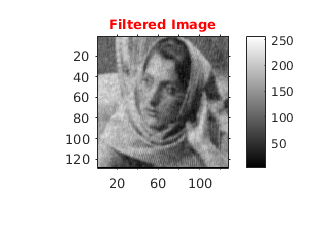
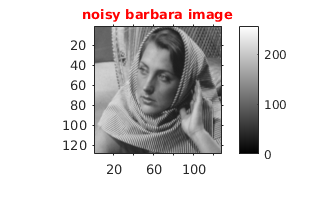
Problem 6 PCA denoise

diff --git a/assignment5/assignment5_DFT/6/code/html/myMainScript.html b/assignment5/assignment5_DFT/6/code/html/myMainScript.html
@@ -66,7 +66,7 @@ table td { padding:7px 5px; text-align:left; vertical-align:top; border:1px soli
 
 
 
-  </style></head><body><div class="content"><h2>Contents</h2><div><ul><li><a href="#1">MyMainScript</a></li><li><a href="#2">Initialization</a></li><li><a href="#3">Adding Gaussian Noise to the image</a></li><li><a href="#4">a) PCA denoising algo</a></li><li><a href="#5">b) PCA denoising algo</a></li></ul></div><h2>MyMainScript<a name="1"></a></h2><pre class="codeinput">tic;
+  </style></head><body><div class="content"><h2>Contents</h2><div><ul><li><a href="#1">PCA Based Denoising</a></li><li><a href="#2">Initialization</a></li><li><a href="#3">Adding Gaussian Noise to the image</a></li><li><a href="#4">a) PCA denoising algo</a></li><li><a href="#5">b) PCA denoising algo using L similar patch</a></li><li><a href="#6">b) PCA denoising algo</a></li></ul></div><h2>PCA Based Denoising<a name="1"></a></h2><pre class="codeinput">tic;
 </pre><h2>Initialization<a name="2"></a></h2><pre class="codeinput">file=<span class="string">'../data/barbara256.png'</span>;
 figure(<span class="string">'name'</span>,<span class="string">'Original Image'</span>);
 scale=1/2;
@@ -82,14 +82,24 @@ figure(<span class="string">'name'</span>,<span class="string">'noisy Image'</sp
 imshow(noisyImg,colormap(cmGray256)),daspect([1,1,1]);
 title(<span class="string">'\fontsize{10}{\color{red}noisy barbara image}'</span>),o1 = get(gca, <span class="string">'Position'</span>);
 colorbar(),set(gca, <span class="string">'Position'</span>, o1),axis <span class="string">tight</span>,axis <span class="string">on</span>;
-</pre><img vspace="5" hspace="5" src="myMainScript_02.png" alt=""> <h2>a) PCA denoising algo<a name="4"></a></h2><pre class="codeinput">tic
+</pre><img vspace="5" hspace="5" src="myMainScript_02.png" alt=""> <img vspace="5" hspace="5" src="myMainScript_03.png" alt=""> <h2>a) PCA denoising algo<a name="4"></a></h2><pre class="codeinput">tic
 patchSize=7;sigma=20;
 img1=myPCADenoising1(noisyImg,patchSize,sigma);
 figure(<span class="string">'name'</span>,<span class="string">'Filtered Image'</span>);
 imshow(img1,colormap(cmGray256)),daspect([1,1,1]);
 title(<span class="string">'\fontsize{10}{\color{red}Filtered Image}'</span>),o1 = get(gca, <span class="string">'Position'</span>);
 colorbar(),set(gca, <span class="string">'Position'</span>, o1),axis <span class="string">tight</span>,axis <span class="string">on</span>;
-</pre><img vspace="5" hspace="5" src="myMainScript_03.png" alt=""> <h2>b) PCA denoising algo<a name="5"></a></h2><pre class="codeinput"><span class="comment">%{
+</pre><img vspace="5" hspace="5" src="myMainScript_04.png" alt=""> <img vspace="5" hspace="5" src="myMainScript_05.png" alt=""> <h2>b) PCA denoising algo using L similar patch<a name="5"></a></h2><pre class="codeinput">tic
+patchSize=7;windowSize=31;L=200;sigma=20;
+img2=myPCADenoising3(noisyImg,windowSize,patchSize,L,sigma);
+figure(<span class="string">'name'</span>,<span class="string">'Denoised Image uisng 200 similar Patch'</span>);
+cmGray256=colormap(gray(256));
+imshow(img2,cmGray256),daspect([1,1,1]);
+title(<span class="string">'\fontsize{10}{\color{red}Filtered Image using 200 similar patch}'</span>),o1 = get(gca, <span class="string">'Position'</span>);
+colorbar(),set(gca, <span class="string">'Position'</span>, o1),axis <span class="string">tight</span>,axis <span class="string">on</span>;
+toc;
+</pre><pre class="codeoutput">Elapsed time is 108.465654 seconds.
+</pre><img vspace="5" hspace="5" src="myMainScript_06.png" alt=""> <h2>b) PCA denoising algo<a name="6"></a></h2><pre class="codeinput"><span class="comment">%{
 </span><span class="comment">tic
 </span><span class="comment">patchSize=7;
 </span><span class="comment">windowSize=25;
@@ -108,7 +118,7 @@ colorbar(),set(gca, <span class="string">'Position'</span>, o1),axis <span class
 </span><span class="comment">%}</span>
 </pre><p class="footer"><br><a href="http://www.mathworks.com/products/matlab/">Published with MATLAB&reg; R2015b</a><br></p></div><!--
 ##### SOURCE BEGIN #####
-%% MyMainScript
+%% PCA Based Denoising
 
 tic;
 %% Initialization
@@ -138,6 +148,19 @@ figure('name','Filtered Image');
 imshow(img1,colormap(cmGray256)),daspect([1,1,1]);
 title('\fontsize{10}{\color{red}Filtered Image}'),o1 = get(gca, 'Position');
 colorbar(),set(gca, 'Position', o1),axis tight,axis on;
+
+%% b) PCA denoising algo using L similar patch
+
+tic
+patchSize=7;windowSize=31;L=200;sigma=20;
+img2=myPCADenoising3(noisyImg,windowSize,patchSize,L,sigma);
+figure('name','Denoised Image uisng 200 similar Patch');
+cmGray256=colormap(gray(256));
+imshow(img2,cmGray256),daspect([1,1,1]);
+title('\fontsize{10}{\color{red}Filtered Image using 200 similar patch}'),o1 = get(gca, 'Position');
+colorbar(),set(gca, 'Position', o1),axis tight,axis on;
+toc;
+
 
 %% b) PCA denoising algo
 %{

diff --git a/assignment5/assignment5_DFT/6/code/myPCADenoising3.m b/assignment5/assignment5_DFT/6/code/myPCADenoising3.m
@@ -1,0 +1,81 @@
+function [outImg]=myPCADenoising3(img,windowSize,patchSize,L,sigma)
+    % padding zeros outside the image. For simple masking
+    [row,col]=size(img);
+    outImg=zeros(row,col); 
+    pad=floor((windowSize-1)/2);
+    imgPad=padarray(img,[pad,pad],0,'both');
+    patchAddedCount=zeros(row,col);
+    for i=1:1:row-patchSize+1
+        for j=1:1:col-patchSize+1
+            xi=i+pad;yi=j+pad;            
+            filtValMat=PCAFilteredValue(imgPad,[xi,yi],windowSize,patchSize,L,sigma);
+            
+            [xp1,yp1,xp2,yp2]=getPatchCoordinate([i,j],patchSize);            
+            outImg(xp1:xp2,yp1:yp2)=outImg(xp1:xp2,yp1:yp2)+filtValMat;
+            patchAddedCount(xp1:xp2,yp1:yp2)=patchAddedCount(xp1:xp2,yp1:yp2)+1;
+        end
+    end
+    outImg=outImg./patchAddedCount;  
+end
+
+function [filteredVal]=PCAFilteredValue(img,point,windowSize,patchSize,L,sigma)        
+    [xw1,yw1,xw2,yw2]=getWindowCoordinate(point,windowSize);
+    [xp1,yp1,xp2,yp2]=getPatchCoordinate(point,patchSize);    
+    croppedImg=img(xw1:xw2,yw1:yw2);        
+    refPatch=reshape(img(xp1:xp2,yp1:yp2),patchSize^2,1);
+    
+    [patchImg,dissimilarity]=convertImgToPatch(croppedImg,refPatch,patchSize);   
+    [sorted,order]=sort(dissimilarity);
+    similarPatch=patchImg(:,order(1:L));
+     
+    % to compute eigen vectors and eigen-coeff of P
+    p=similarPatch;
+    ppt=p*p';
+    [v d]=eig(ppt);
+    eignCoffMat=v'*p;
+    eignCoffRefPatch=v'*refPatch;
+   
+    alphaBar=max(0,(sum(eignCoffMat.^2,2)./L)-(sigma^2));
+    kFactor=1./(1+ (sigma^2./alphaBar));
+    alphaEigenCoffDenoised=kFactor.*eignCoffRefPatch;   
+    qDenoised=(v*alphaEigenCoffDenoised);
+    filteredVal=reshape(qDenoised,patchSize,patchSize);
+    
+end
+
+% Returns the  patchImg of dimension (patchSize^2)x (No. of patchs)
+function [patchImg,dissimilarity]=convertImgToPatch(img,refVector,patchSize)
+    [row,col]=size(img);
+    % Init
+    noOfPatch=(row-patchSize)*(col-patchSize);
+    vectorSize=patchSize^2;
+    patchImg=zeros(vectorSize,noOfPatch);
+    dissimilarity=zeros(1,noOfPatch);
+    pk=1;
+    % Fetching patch from image and trasforming it into vector 
+    for i=1:row-patchSize+1;
+        for j=1:col-patchSize+1;
+            [x1,y1,x2,y2]=getPatchCoordinate([i,j],patchSize);
+            vector=reshape(img(x1:x2,y1:y2),vectorSize,1);
+            patchImg(:,pk)=vector;
+            dissimilarity(pk)=sum((vector-refVector).^2);
+            pk=pk+1;
+        end
+    end        
+end
+
+
+% Getting Window Coordinate assuming point as center
+function [x1,y1,x2,y2]=getWindowCoordinate(centerPoint,windowSize)
+    x=centerPoint(1);y=centerPoint(2);
+    halfSize=floor((windowSize-1)/2);
+    x1=x-halfSize;y1=y-halfSize;    
+    x2=x+halfSize;y2=y+halfSize; 
+end
+
+% Getting Patch Coordinate
+function [x1,y1,x2,y2]=getPatchCoordinate(topLeftPoint,patchSize)
+    x=topLeftPoint(1);y=topLeftPoint(2);           
+    x1=x;y1=y;    
+    x2=x+patchSize-1;y2=y+patchSize-1; 
+end

diff --git a/assignment5/assignment5_DFT/6/code/myMainScript.m b/assignment5/assignment5_DFT/6/code/myMainScript.m
@@ -1,4 +1,4 @@
-%% MyMainScript
+%% PCA Based Denoising
 
 tic;
 %% Initialization
@@ -26,8 +26,20 @@ patchSize=7;sigma=20;
 img1=myPCADenoising1(noisyImg,patchSize,sigma);
 figure('name','Filtered Image');
 imshow(img1,colormap(cmGray256)),daspect([1,1,1]);
-title('\fontsize{10}{\color{red}Filtered Image}'),o1 = get(gca, 'Position');
+title('\fontsize{10}{\color{magenta}Filtered Image}'),o1 = get(gca, 'Position');
 colorbar(),set(gca, 'Position', o1),axis tight,axis on;
+
+%% b) PCA denoising algo using L similar patch
+
+tic
+patchSize=7;windowSize=31;L=200;sigma=20;
+img2=myPCADenoising3(noisyImg,windowSize,patchSize,L,sigma);
+figure('name','Denoised Image uisng 200 similar Patch');
+cmGray256=colormap(gray(256));
+imshow(img2,cmGray256),daspect([1,1,1]);
+title('\fontsize{10}{\color{magenta}Filtered Image using 200 similar patch}'),o1 = get(gca, 'Position');
+colorbar(),set(gca, 'Position', o1),axis tight,axis on;
+toc;
 
 %% b) PCA denoising algo
 %{

diff --git a/assignment5/assignment5_DFT/6/code/myPCADenoising2.m b/assignment5/assignment5_DFT/6/code/myPCADenoising2.m
@@ -91,8 +91,7 @@ function [x1,y1,x2,y2]=getWindowCoordinate(windowSize,patchSize,centerCoordinate
     x2=x+N;
     y1=y-N;
     y2=y+N;
-
-   
+ 
 end
 
 
